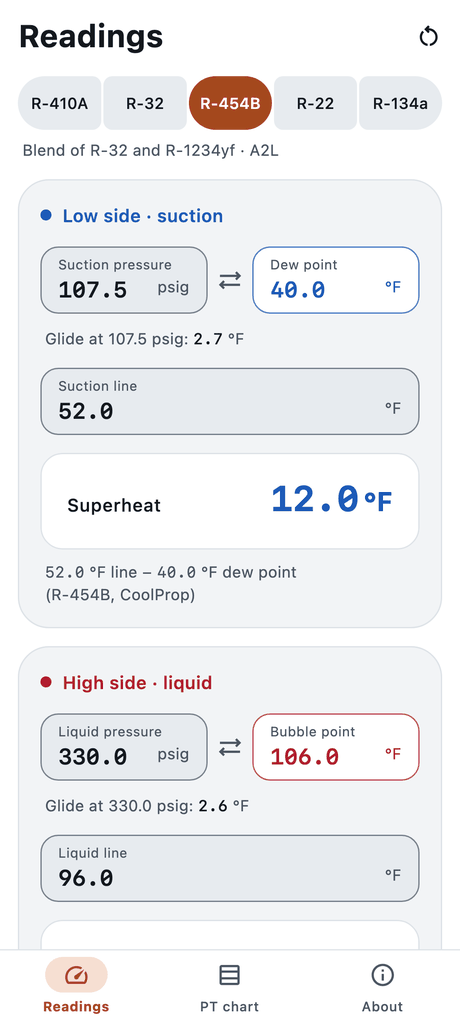
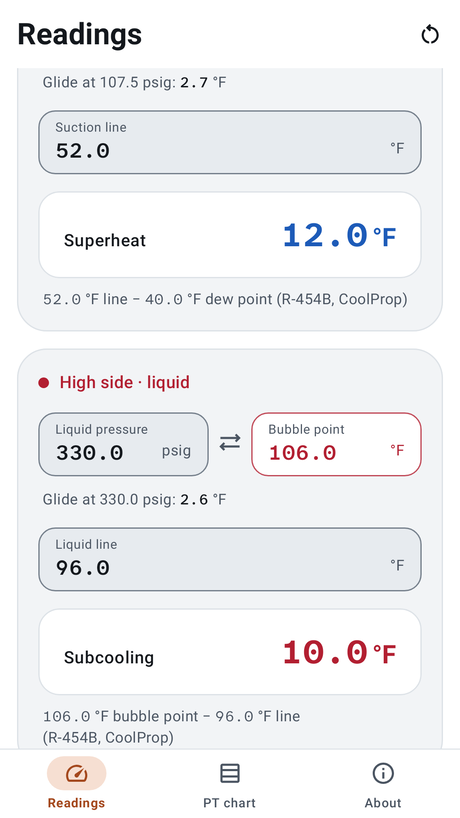
Screenshots from the built app (Play phone set) in place of the design pictures

diff --git a/index.html b/index.html
@@ -97,7 +97,7 @@
           <p class="secondary">No account, no ads, and nothing collected. <a href="privacy/">Privacy</a></p>
         </div>
         <figure class="hero-shot">
-          <img src="screenshots/01-readings.png" width="460" height="1022" alt="Glidechart's Readings screen with R-454B chosen. Low side, suction: suction pressure 107.5 psig, dew point 40.0 °F, glide at 107.5 psig 2.7 °F, suction line 52.0 °F, superheat 12.0 °F, and under it 52.0 °F line minus 40.0 °F dew point (R-454B, CoolProp). High side, liquid: liquid pressure 330.0 psig, bubble point 106.0 °F, glide 2.6 °F, liquid line 96.0 °F.">
+          <img src="screenshots/01-readings.png" width="460" height="818" alt="Glidechart's Readings screen with R-454B: glide at 107.5 psig 2.7 °F, suction line 52.0 °F and superheat 12.0 °F, with 52.0 °F line minus 40.0 °F dew point (R-454B, CoolProp); then the high side, liquid: liquid pressure 330.0 psig, bubble point 106.0 °F, glide 2.6 °F, liquid line 96.0 °F and subcooling 10.0 °F, with 106.0 °F bubble point minus 96.0 °F line (R-454B, CoolProp).">
         </figure>
       </div>
     </div>
@@ -144,19 +144,19 @@
         <h2 id="screens">Readings, the PT chart and a caution</h2>
         <div class="shots">
           <figure>
-            <img src="screenshots/02-chart.png" width="460" height="1022" loading="lazy" alt="The PT chart for R-454B by °F: rows every 1 °F from 35 to 47 °F with the dew pressure for superheat and the bubble pressure for subcool side by side, the 40 °F row marked as the last reading with 107.5 and 113.2 psig, and an index from −20 to 120 along the edge.">
+            <img src="screenshots/02-chart.png" width="460" height="818" loading="lazy" alt="The PT chart for R-454B by °F: rows every 1 °F from 36 to 44 °F with the dew pressure for superheat and the bubble pressure for subcool side by side, the 40 °F row marked as the last reading with 107.5 and 113.2 psig, and an index from −20 to 120 along the edge.">
             <figcaption>A PT chart every 1 °F, −20 °F to 120 °F</figcaption>
           </figure>
           <figure>
-            <img src="screenshots/03-caution.png" width="460" height="1022" loading="lazy" alt="Readings for R-410A: suction pressure 118.4 psig, dew point 40.0 °F, suction line 38.0 °F and superheat −2.0 °F, with an amber caution, Superheat at or below zero: liquid refrigerant may be returning to the compressor; re-check the pressure and the line temperature. The high side shows 1180 psig with no bubble point.">
+            <img src="screenshots/03-caution.png" width="460" height="818" loading="lazy" alt="Readings for R-410A: suction pressure 118.4 psig, dew point 40.0 °F, glide 0.2 °F, suction line 38.0 °F and superheat −2.0 °F, with an amber caution, Superheat at or below zero: liquid refrigerant may be returning to the compressor; re-check the pressure and the line temperature.">
             <figcaption>Cautions say what to re-check</figcaption>
           </figure>
           <figure>
-            <img src="screenshots/04-readings-dark.png" width="460" height="1022" loading="lazy" alt="The same R-454B readings in dark mode: superheat 12.0 °F on the low side in blue, with the high side in red below it.">
+            <img src="screenshots/04-readings-dark.png" width="460" height="818" loading="lazy" alt="The same R-454B readings in dark mode: superheat 12.0 °F on the low side in blue and subcooling 10.0 °F on the high side in red.">
             <figcaption>Light or dark</figcaption>
           </figure>
         </div>
-        <p class="note">These pictures are the design's final screens, drawn on Android. The store screenshots, taken from the built app, will replace them.</p>
+        <p class="note">Screenshots from the built Android app, with real values from its table.</p>
       </div>
     </section>
 
